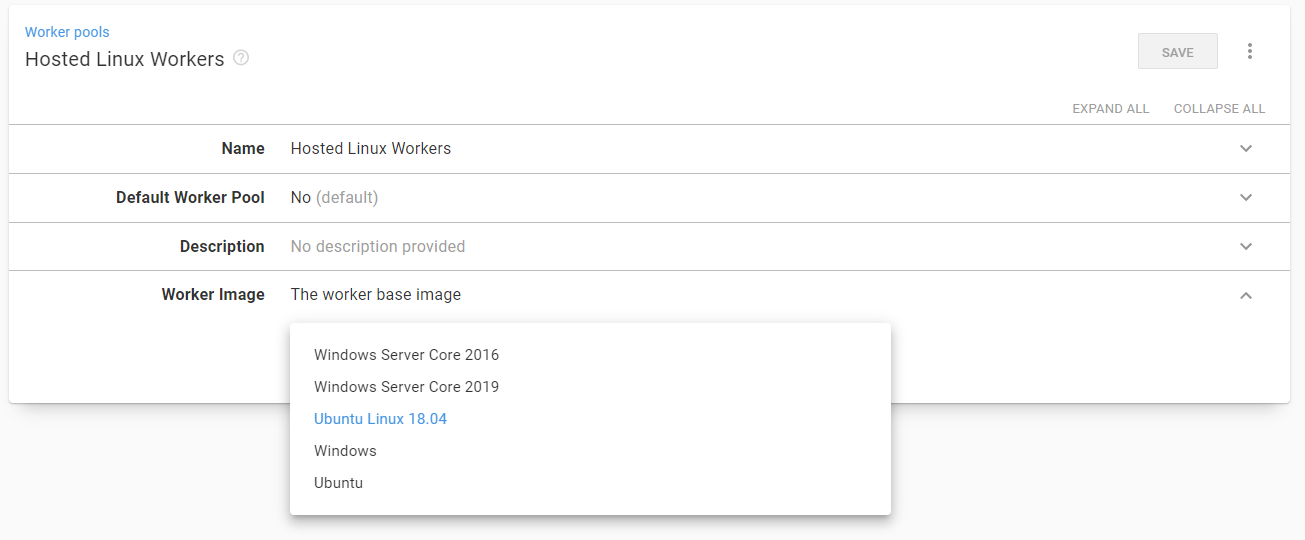
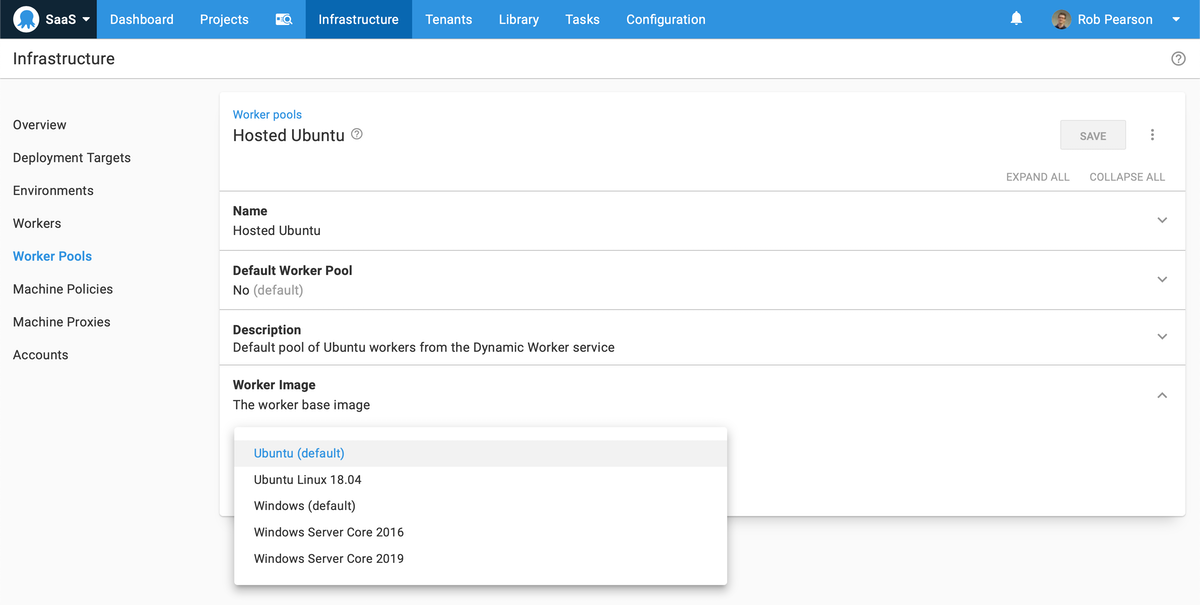
Updated graphics with the final worker pool name.

diff --git a/blog/2020-09/octopus-cloud-built-in-linux-worker-pools/index.md b/blog/2020-09/octopus-cloud-built-in-linux-worker-pools/index.md
@@ -21,7 +21,7 @@ The lack of support for Linux workers on Octopus Cloud has made us a little sad 
 
 As of today, I'm happy to announce we support Ubuntu workers on Octopus Cloud. This is a step forward for us on our journey to being the best deployment tool for your Windows workloads and for your Linux workloads.
 
-![Worker Pool Configuration with Ubuntu 18.04 selected](images/worker-pool-configuration.png)
+![Worker Pool Configuration with Ubuntu 18.04 selected](images/worker-pool-configuration.png "width=500")
 
 ## Windows 2019 workers now available
 
@@ -51,7 +51,7 @@ After you've created your new worker pool, go to the projects tab, and create a 
 
 On the process tab, add a new **Run a Script** step. Choosing **Run once on a worker** will let you choose your new worker pool and expose a new section called **Container Image**.
 
-![Runbook step with worker pool and Container Image](images/runbook-step-worker-pool-container.png)
+![Runbook step with worker pool and Container Image](images/runbook-step-worker-pool-container.png "width=500")
 
 Choose your Docker Hub feed, and then click the `Use latest Linux-based image` link at the bottom. This will populate the field with the latest version automatically.
 
@@ -75,7 +75,7 @@ terraform apply -no-color -auto-approve
 
 Hitting **Save** then **Run** will execute the script:
 
-![Runbook execution log](images/terraform-run-log.png)
+![Runbook execution log](images/terraform-run-log.png "width=500")
 
 While this script doesn't exactly do much (it `echo`'s out "hello"), it highlights how easy it is to run a bash script and use the latest Terraform version.
 
